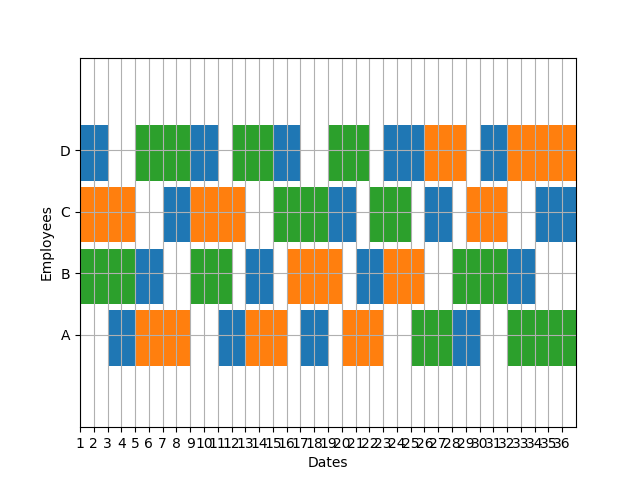
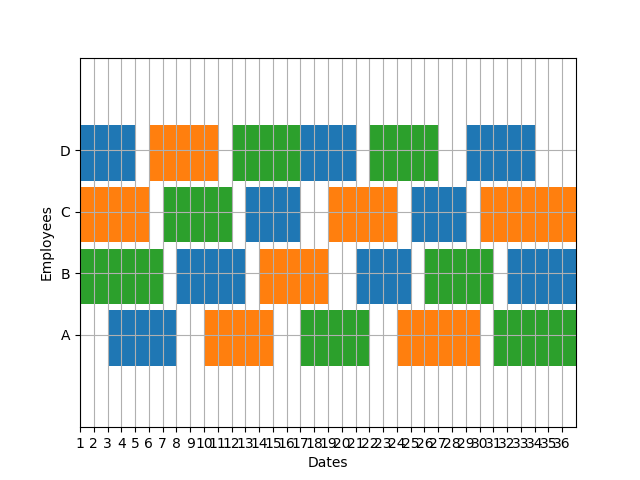
refactor: update for new target

Changed region(s): [[0.1562, 0.25, 0.9062, 0.7812]]

diff --git a/shift_schedule_sat.py b/shift_schedule_sat.py
@@ -202,29 +202,21 @@ def solve_shift_scheduling(params, output_proto):
         (1, 1, 0),
         (2, 2, 0),
         (3, 3, 0),
-        # (4, 2, 0),
-        # (5, 2, 0),
-        # (6, 2, 3),
-        # (7, 3, 0),
         (0, 0, 1),
         (1, 1, 1),
         (2, 2, 1),
         (3, 3, 1),
-        # (4, 2, 1),
-        # (5, 0, 1),
-        # (6, 0, 1),
-        # (7, 3, 1),
     ]
 
     # Request: (employee, shift, day, weight)
     # A negative weight indicates that the employee desire this assignment.
     requests = [
         # Employee 3 does not want to work on the first Saturday (negative weight for the Off shift).
-        (3, 0, 5, -2),
+        # (3, 0, 5, -2),
         # Employee 5 wants a night shift on the second Thursday (negative weight).
         # (5, 3, 10, -2),
         # Employee 2 does not want a night shift on the first Friday (positive weight).
-        (2, 3, 4, 4)
+        # (2, 3, 4, 4)
     ]
 
     # Shift constraints on continuous sequence :
@@ -233,12 +225,12 @@ def solve_shift_scheduling(params, output_proto):
     shift_constraints = [
         # One or two consecutive days of rest, this is a hard constraint.
         (0, 1, 1, 0, 2, 2, 0),
-        # betweem 2 and 3 consecutive days of night shifts, 1 and 4 are
+        # between 2 and 3 consecutive days of night shifts, 1 and 4 are
         # possible but penalized.
-        (3, 2, 2, 20, 4, 4, 5),
+        (3, 4, 4, 0, 4, 5, 0),
 
-        (1, 3, 3, 0, 4, 4, 0),
-        (2, 3, 3, 0, 4, 4, 0),
+        (1, 5, 5, 0, 6, 6, 0),
+        (2, 5, 5, 0, 6, 6, 0),
     ]
 
     # Weekly sum constraints on shifts days:
@@ -248,7 +240,7 @@ def solve_shift_scheduling(params, output_proto):
         # Constraints on rests per week.
         (0, 1, 2, 7, 2, 3, 4),
         # At least 1 night shift per week (penalized). At most 4 (hard).
-        (3, 0, 1, 3, 4, 4, 0),
+        # (3, 0, 1, 3, 4, 4, 0),
     ]
 
     # Penalized transitions:
@@ -262,15 +254,6 @@ def solve_shift_scheduling(params, output_proto):
 
     # daily demands for work shifts (morning, afternon, night) for each day
     # of the week starting on Monday.
-    # weekly_cover_demands = [
-    #     (2, 3, 1),  # Monday
-    #     (2, 3, 1),  # Tuesday
-    #     (2, 2, 2),  # Wednesday
-    #     (2, 3, 1),  # Thursday
-    #     (2, 2, 2),  # Friday
-    #     (1, 2, 3),  # Saturday
-    #     (1, 3, 1),  # Sunday
-    # ]
     weekly_cover_demands = [
         (1, 1, 1),  # Monday
         (1, 1, 1),  # Tuesday
